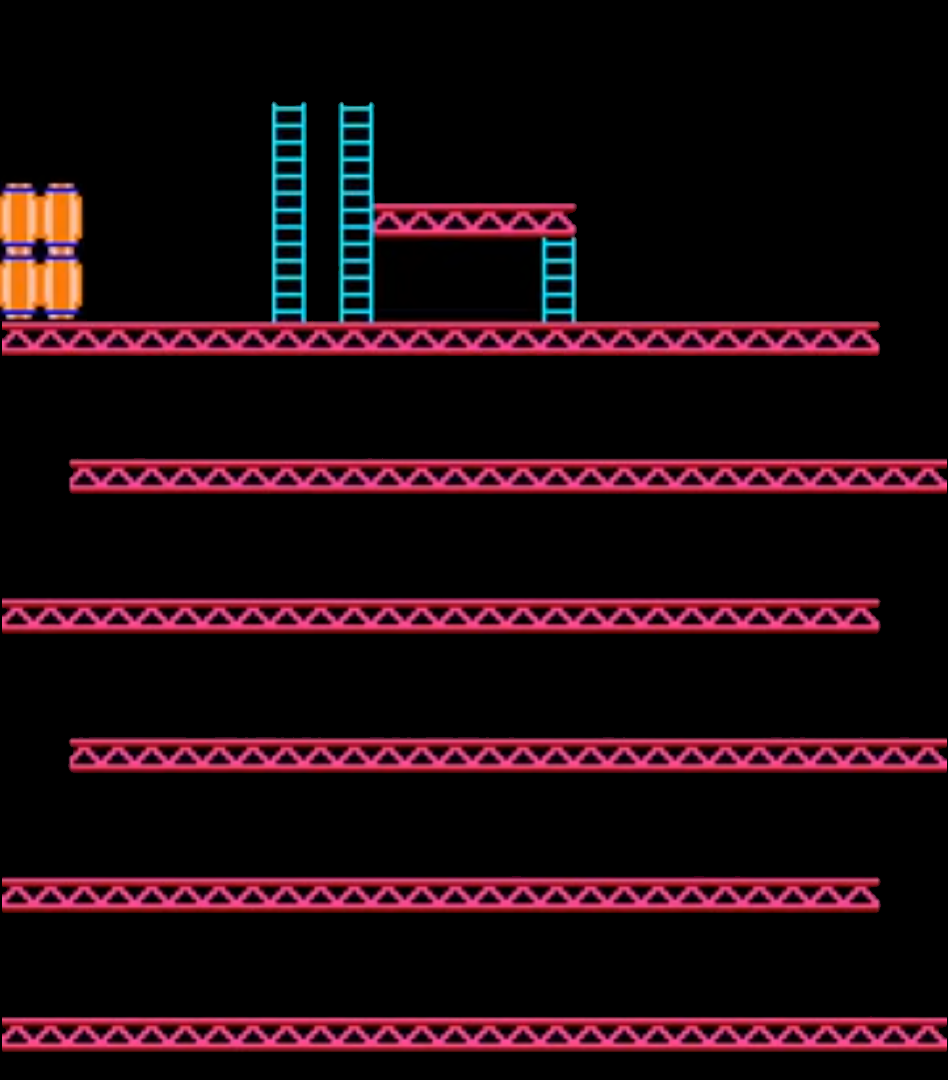
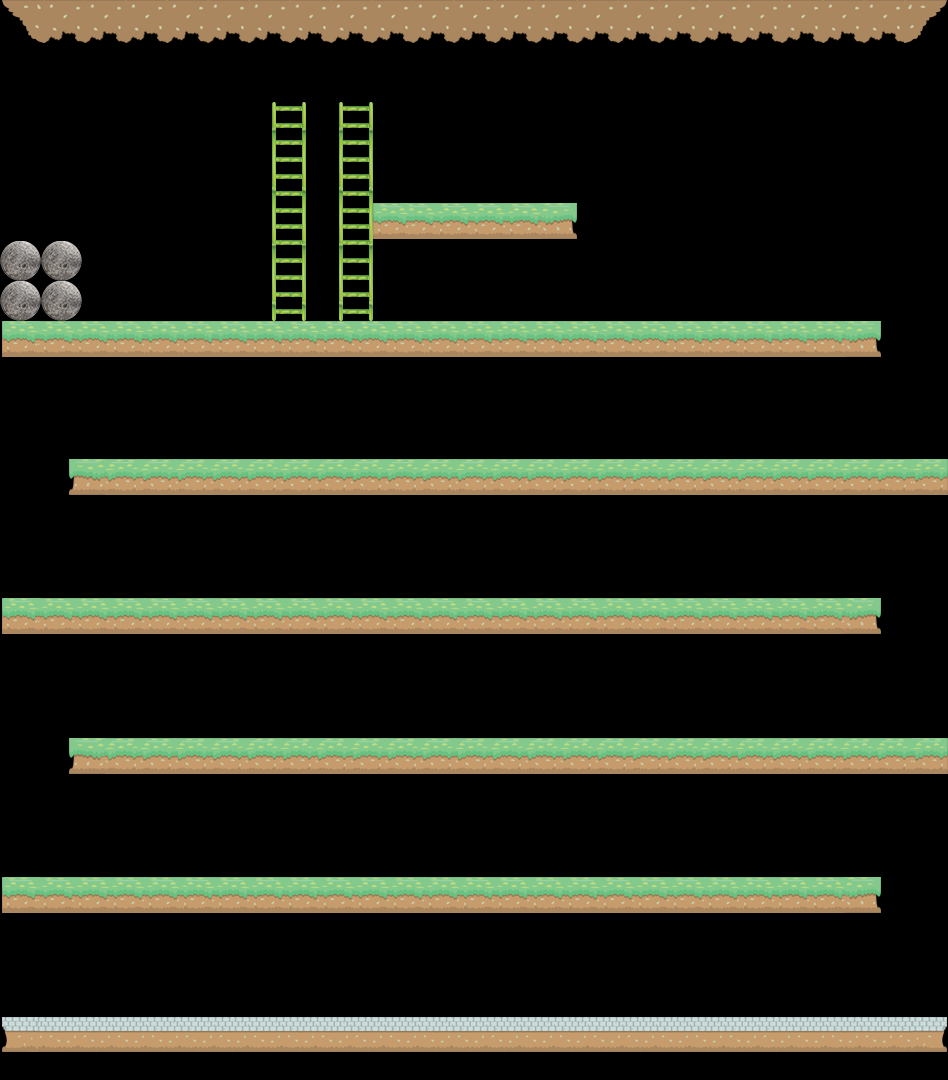
Delete unnecessary elements and replace tonneau1.png by Rocher.png

diff --git a/src/main/java/start/structure/EchelleBroken.java b/src/main/java/start/structure/EchelleBroken.java
@@ -23,7 +23,7 @@ public class EchelleBroken extends Group {
         this.echelle = new Rectangle(x, y, width, height);
         this.collision = new Rectangle(x - 10, y, (width + 20), (height));
         collision.setFill(Paint.valueOf("red"));
-        echelle.setFill(new ImagePattern(new Image("echelle-broken-NEW.png")));
+        echelle.setFill(new ImagePattern(new Image("echelle-broken.png")));
         collision.setOpacity(0);
         this.getChildren().add(echelle);
         this.getChildren().add(collision);

diff --git a/src/main/java/start/structure/Echelle.java b/src/main/java/start/structure/Echelle.java
@@ -23,7 +23,7 @@ public class Echelle extends Group {
         this.echelle = new Rectangle(x, y, width, height);
         this.collision = new Rectangle(x - 10, y - 35, (width + 20), (height + 35));
         collision.setFill(Paint.valueOf("red"));
-        echelle.setFill(new ImagePattern(new Image("echelle-NEW.png")));
+        echelle.setFill(new ImagePattern(new Image("echelle.png")));
         collision.setOpacity(0.5);
         this.getChildren().add(echelle);
         this.getChildren().add(collision);

diff --git a/src/main/java/start/structure/Tonneaux.java b/src/main/java/start/structure/Tonneaux.java
@@ -30,7 +30,7 @@ public class Tonneaux extends Group {
         collision = new Rectangle(x, y, width, height);
         collisionHaut = new Rectangle(x, y - 30, width, height);
         corps.setFill(Paint.valueOf("brown"));
-        corps.setFill(new ImagePattern(new Image("tonneau1.png")));
+        corps.setFill(new ImagePattern(new Image("Rocher.png")));
         collision.setFill(Paint.valueOf("red"));
         collisionHaut.setFill(Paint.valueOf("blue"));
         collisionHaut.setOpacity(0);

diff --git a/src/main/java/start/structure/Fond.java b/src/main/java/start/structure/Fond.java
@@ -10,7 +10,7 @@ public class Fond extends Group {
 
     public Fond(int x, int y, int width, int height) {
         fond = new Rectangle(x, y, width, height);
-        fond.setFill(new ImagePattern(new Image("fond-NEW.png")));
+        fond.setFill(new ImagePattern(new Image("fond.png")));
 
 
         this.getChildren().add(fond);
